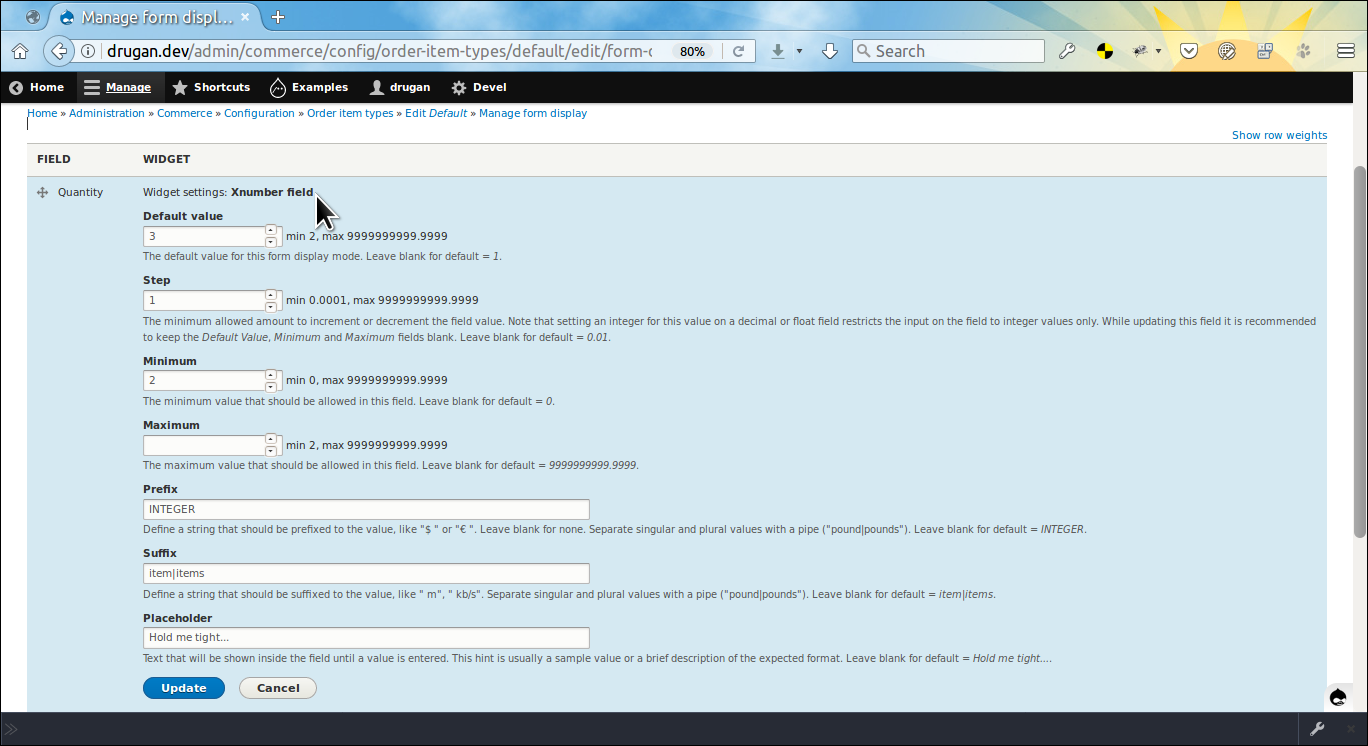
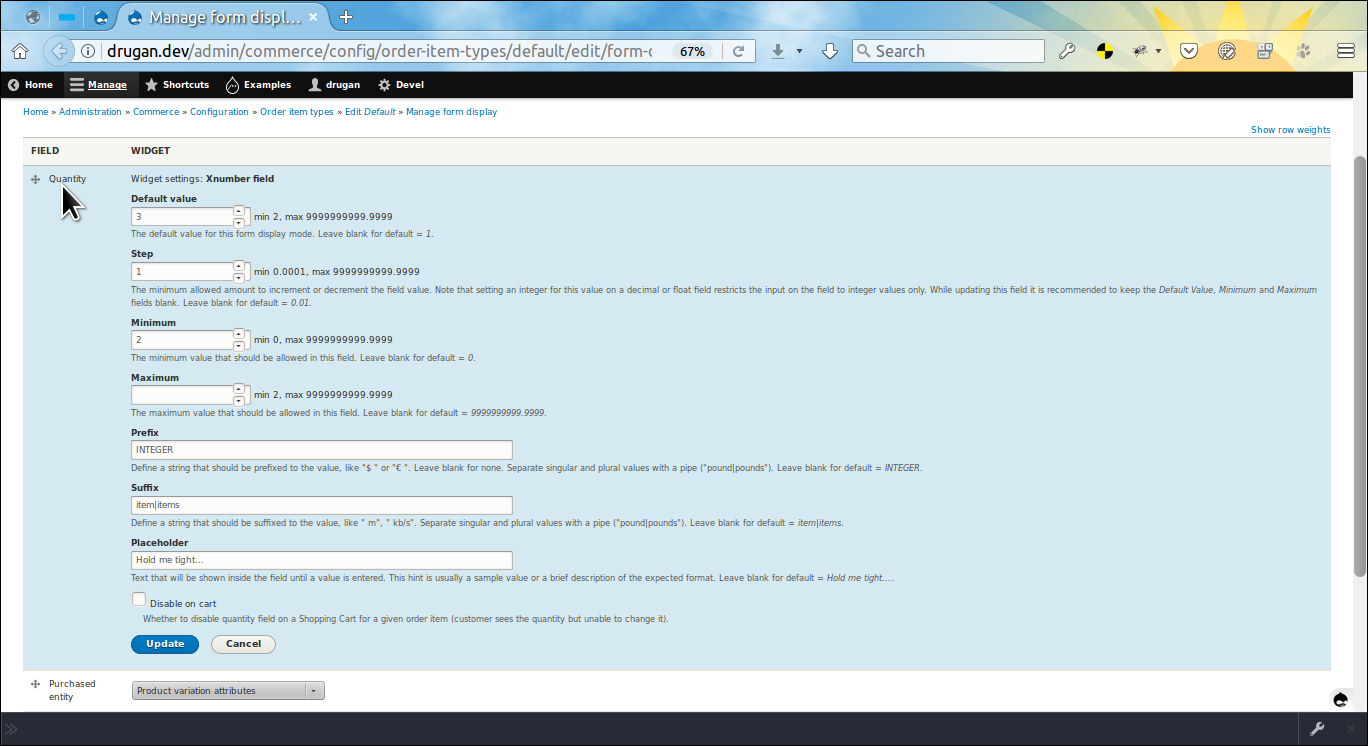
Issue #2939675 by ytsurk: Input on cart disabled

diff --git a/src/Plugin/Field/FieldWidget/XquantityWidget.php b/src/Plugin/Field/FieldWidget/XquantityWidget.php
@@ -1,0 +1,39 @@
+<?php
+
+namespace Drupal\commerce_xquantity\Plugin\Field\FieldWidget;
+
+use Drupal\Core\Form\FormStateInterface;
+use Drupal\xnumber\Plugin\Field\FieldWidget\XnumberWidget;
+
+/**
+ * Overrides the 'xnumber' widget.
+ */
+class XquantityWidget extends XnumberWidget {
+
+  /**
+   * {@inheritdoc}
+   */
+  public static function defaultSettings() {
+    return [
+      'disable_on_cart' => '',
+    ] + parent::defaultSettings();
+  }
+
+  /**
+   * {@inheritdoc}
+   */
+  public function settingsForm(array $form, FormStateInterface $form_state) {
+    $element = parent::settingsForm($form, $form_state);
+    if ($form_state->getFormObject()->getEntity()->getTargetEntityTypeId() == 'commerce_order_item') {
+      $element['disable_on_cart'] = [
+        '#type' => 'checkbox',
+        '#title' => $this->t('Disable on cart', [], ['context' => 'numeric item']),
+        '#default_value' => $this->getSetting('disable_on_cart'),
+        '#description' => t('Whether to disable quantity field on a Shopping Cart for a given order item (customer sees the quantity but unable to change it).'),
+      ];
+    }
+
+    return $element;
+  }
+
+}

diff --git a/src/Entity/XquantityOrderItem.php b/src/Entity/XquantityOrderItem.php
@@ -62,13 +62,13 @@ class XquantityOrderItem extends OrderItem {
    */
   public function getQuantityWidgetSettings() {
     $settings = [];
+    $settings['#disable_on_cart'] = FALSE;
     // If 'Add to cart' form display mode is enabled we prefer its settings
     // because exactly those settings are exposed to and used by a customer.
     $form_display = entity_get_form_display($this->getEntityTypeId(), $this->bundle(), 'add_to_cart');
     $quantity = $form_display->getComponent('quantity');
-    $settings['add_to_cart_quantity_hidden'] = !$quantity;
 
-    if ($settings['add_to_cart_quantity_hidden']) {
+    if (!$quantity) {
       $form_display = entity_get_form_display($this->getEntityTypeId(), $this->bundle(), 'default');
       $quantity = $form_display->getComponent('quantity');
     }

diff --git a/src/Plugin/views/field/XquantityEditQuantity.php b/src/Plugin/views/field/XquantityEditQuantity.php
@@ -56,9 +56,8 @@ class XquantityEditQuantity extends EditQuantity {
         '#placeholder' => empty($attr['#placeholder']) ? '' : $attr['#placeholder'],
         '#field_prefix' => $attr['#prefix'],
         '#field_suffix' => $attr['#suffix'],
-        // Do not allow to change the default quantity if the quantity widget
-        // is hidden on the 'Add to cart' form display.
-        '#disabled' => $attr['add_to_cart_quantity_hidden'],
+        // Might be disabled on the quantity field form display widget.
+        '#disabled' => $attr['#disable_on_cart'],
       ];
     }
     // Replace the form submit button label.

diff --git a/README.md b/README.md
@@ -4,12 +4,14 @@ Commerce Extended Quantity
 Allows to set quantity field's **default_value**, **step**, **min**, **max**,
 **prefix** and **suffix** on a form display widget. Additionally, validates user
 input on the field and order item's quantity availability both on
-an *Add to cart* form and quantity update field in a *Shopping cart*. More info
-could be found on
+an *Add to cart* form and quantity update field in a *Shopping cart*. Also,
+allows to disable quantity field for a given order item type on
+the [cart#](#0 "Shopping cart page"). More info could be found on
 the [Extended Number Field ↗](https://github.com/drugan/xnumber) module's page,
 on top of which the current module is built.
 
 - [admin/help/commerce_xquantity#set-up](#set-up "Set up")
+- [admin/help/commerce_xquantity#disable-on-cart](#disable-on-cart "Disable on cart")
 - [admin/help/commerce_xquantity#important-notes](#important-notes "Important notes")
 - [admin/help/commerce_xquantity#settings-workflow](#important-notes "Settings workflow")
 - [admin/help/commerce_xquantity#empty-string-or-0-quantity](#empty-string-or-0-quantity "Empty string or 0 quantity")
@@ -46,8 +48,8 @@ multiples of the *0.5* step. For the most common set up you might set it to *1*.
 If you sell, for example, t-shirts but want your customers add to cart only even
 quantities, then you might set it to *2* and force them to
 buy *2* or *4* or *98* but not *1* or *3* or *99* t-shirts.
-- **min:** The minimal value allowed. Use it to force customers to buy no less
-than the value. Should be the multiple of the *step* and no greater than
+- **min:** The minimal value allowed. Use it to force customers for buying no
+less than the value. Should be the multiple of the *step* and no greater than
 the *max* property.
 - **max:** The maximum value allowed. Should be the multiple of
 the *step* and no less than the *min* property. Use it to restrict customers on
@@ -55,6 +57,8 @@ the order item quantity to buy.
 - **prefix:** The text appearing before the quantity field.
 - **suffix:** The text appearing after the quantity field.
 - **placeholder:** The text appearing inside the empty quantity field.
+- **disable_on_cart:** Whether to disable field in a Shopping cart for the given
+order item type.
 - **base_default_value:** The value defined for the field in code (*1*).
 - **base_step:** The calculated value which is the minimal step for the
 decimal field with the precision *14,4* (*0.0001*).
@@ -65,18 +69,24 @@ than *0* by its nature.
 precision *14,4* (*9999999999.9999*).
 
 To change the settings displayed on the widget summary click on the gear icon at
-the right of the summary.
+the right of the summary. If you don't want to expose *quantity* field for a
+customer on the *Add to cart* form but still require non-default settings for
+the field then do the same settings on the *Default* form mode's form display
+widget.
 
 ![Quantity settings](images/add-to-cart-mode-settings.png
 "Quantity settings")
 
-If you don't want to expose *quantity* field for a customer on
-the *Add to cart* form, then do the same settings on the *Default* form mode's
-form display widget. Note that in this case the field in the *Quantity* column
-of the *Shopping cart* table will be disabled as the logic implies that you
-disallow customers to change (update) this order item's quantity. Look at
-the *INTEGER* quantity field below:
+## Disable on cart
 
+There might be cases when a customer should be disallowed to update quantity in
+a *Shopping cart*. For example, you did not exposed the field on
+an *Add to cart* form supposing the default quantity to be added or, the field
+is exposed but you disallow the customer to change their mind on the cart page.
+So, they have just two options: either to continue with checkout or remove order
+item from a cart. Arguably, this workflow may increase sales rate.
+
+![Disable on cart](images/disable-on-cart.png "Disable on cart")
 ![Disabled edit quantity](images/disabled-edit-qty.png "Disabled edit quantity")
 
 ## Important notes
